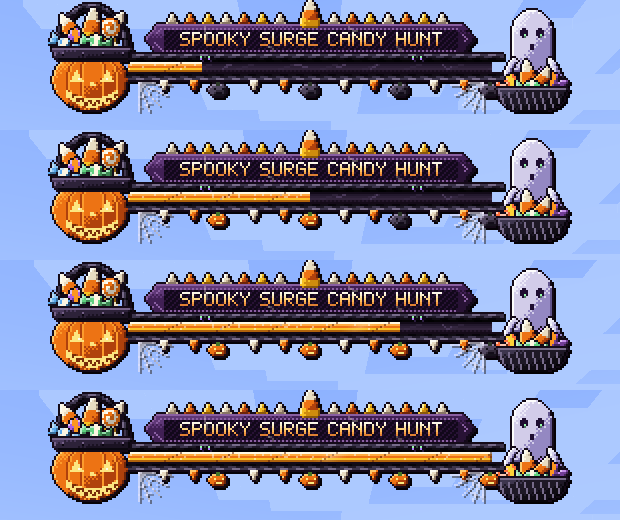
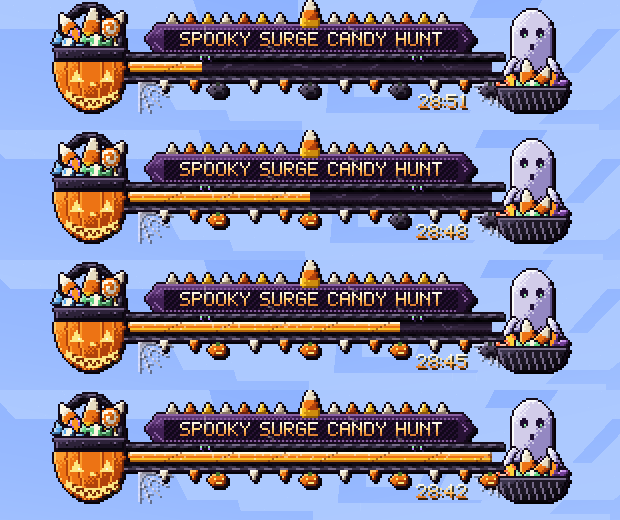
Candy Hunt bar: pumpkin pail opening matches the pumpkin, add a small timer under the bar
The pumpkin is now a round body cut open near its widest point and the rim is exactly as wide as the pumpkin, so the basket top no longer
overhangs it. A small m:ss timer (own 5x7 digit font) sits under the bar beside the right cobweb; the right cobweb is smaller and moved
out of its way. The timer is part of the Java and Python title layouts (golden-tested) and is set from the surge's remaining time.

Claude-Session: https://claude.ai/code/session_01ECEkNrQzr2ho3CrbQ9Uk8T

diff --git a/tools/bossbar-art/candyhunt.py b/tools/bossbar-art/candyhunt.py
@@ -142,7 +142,7 @@ def lollipop(c, cx, cy, r=5.2, stick=(3, 14)):
 
 def pumpkin_pail(c, cx=22):
     """Left medallion: a jack-o'-lantern trick-or-treat pail brimming with candy, under a licorice handle."""
-    handle = [(cx + 17.5 * math.cos(math.radians(a)), 25 + 22.0 * math.sin(math.radians(a))) for a in range(180, 361, 10)]
+    handle = [(cx - 1 + 15.8 * math.cos(math.radians(a)), 25 + 22.0 * math.sin(math.radians(a))) for a in range(180, 361, 10)]
     rope_pixels(c, handle, 2.8)
     # the candy pile, drawn behind the rim
     draw_candy(c, cx - 11, 7, 15, 9, 2.6, deg=-34, over=True)
@@ -151,15 +151,17 @@ def pumpkin_pail(c, cx=22):
     wrapped_candy(c, cx - 8, 18, deg=-18, wrap=0)
     draw_candy(c, cx, 5, 17, 10, 3, deg=4, over=True)
     wrapped_candy(c, cx + 2, 21, deg=10, wrap=1, length=11)
-    wrapped_candy(c, cx - 14, 22, deg=24, wrap=3, length=10)
-    # the pumpkin pail
-    body = c.ellipse(cx - 1, 40, 18.6, 15.2)
+    wrapped_candy(c, cx - 12, 22, deg=24, wrap=3, length=10)
+    # the pumpkin pail: a round pumpkin cut open near its widest point, so the opening is as wide as the pumpkin and the rim never overhangs it
+    bc, RX, RY, CY, CUT = cx - 1, 17.6, 21.0, 34, 27
+    body = c.ellipse(bc, CY, RX, RY)
+    body[:CUT, :] = False
     bevel(c, body, ORANGE, edge=body)
-    for k in (-13, -6.5, 6.5, 13):                                         # ribs follow the curve of the pumpkin
-        for y in range(26, 56):
-            f = 1 - ((y - 40) / 15.2) ** 2
+    for k in (-12.5, -6.2, 6.2, 12.5):                                     # ribs follow the curve of the pumpkin
+        for y in range(CUT, 56):
+            f = 1 - ((y - CY) / RY) ** 2
             if f <= 0: continue
-            x = int(round(cx + k * math.sqrt(f)))
+            x = int(round(bc + k * math.sqrt(f)))
             if 0 <= x < c.w and body[y, x]:
                 c.put(x, y, tuple4(ORANGE[1])); c.put(x + (1 if k < 0 else -1), y, tuple4(ORANGE[3]))
     c.outline(OUT, base=body)
@@ -185,10 +187,10 @@ def pumpkin_pail(c, cx=22):
         y1 = 47.8 + 6.0 * (1 - ((x - cx) / 13.5) ** 2) - 0.6
         t = c.poly([(x, y1), (x + 2.6, y1), (x + 1.3, y1 - 2.4)]) & m
         c.paint(t, edge)
-    # the pail's rim: a charcoal band with rivets, in front of the candy and the pumpkin top
-    rim = c.poly([(cx - 20, 24), (cx + 20, 24), (cx + 18.6, 29.4), (cx - 18.6, 29.4)])
+    # the rim: a charcoal band exactly as wide as the pumpkin at its widest, so it frames the opening instead of overhanging it
+    rim = c.poly([(bc - RX, 24), (bc + RX, 24), (bc + RX - 0.6, 29.4), (bc - RX + 0.6, 29.4)])
     bevel(c, rim, CHAR, edge=rim); c.outline(OUT, base=rim, over=True)
-    for x in (cx - 15, cx - 5, cx + 5, cx + 15): c.put(x, 26, tuple4(CHAR[4])); c.put(x, 27, tuple4(CHAR[0]))
+    for x in (bc - 12, bc - 4, bc + 4, bc + 12): c.put(int(x), 26, tuple4(CHAR[4])); c.put(int(x), 27, tuple4(CHAR[0]))
 
 
 def ghost_bowl(c, cx=242):
@@ -267,10 +269,10 @@ def rails(c):
         pass
 
 
-def web(c, ax, ay, bx, by, flip):
+def web(c, ax, ay, bx, by, flip, scale=1.0):
     """A tiny cobweb fanning from the corner (ax, ay); flip mirrors it for the right-hand side."""
     sgn = -1 if flip else 1
-    rays = [(sgn * 16, 1), (sgn * 14, 6), (sgn * 10, 11), (sgn * 5, 14), (0, 15)]
+    rays = [(sgn * 16 * scale, 1), (sgn * 14 * scale, 6 * scale), (sgn * 10 * scale, 11 * scale), (sgn * 5 * scale, 14 * scale), (0, 15 * scale)]
     for rx, ry in rays:
         n = int(max(abs(rx), abs(ry)))
         for i in range(n + 1):
@@ -327,7 +329,7 @@ def compose():
     c = Canvas(CW, CH)
     banner(c)
     rails(c)
-    web(c, 45, 41, 0, 0, False); web(c, 217, 41, 0, 0, True)
+    web(c, 45, 41, 0, 0, False); web(c, 224, 41, 0, 0, True, 0.75)
     fangs(c)
     for k in range(4): tier_studs(c, SLOT_X + (45, 91, 136, 181)[k], False)
     trapped_eyes(c)
@@ -446,3 +448,24 @@ def font_sheet():
         metrics[ch] = {'cp': cp, 'adv': right + 2}                     # Minecraft trims empty RIGHT columns: advance = rightmost inked column + 1, plus 1
     metrics[' '] = {'cp': PUA_BASE + 0xFF, 'adv': SPACE_ADV}
     return sheet, [''.join(r) for r in chars], metrics
+
+
+# ---------------------------------------------------------------------------------------------------------- timer font
+TIMER_CHARS = '0123456789:'
+TIMER_CELL_W, TIMER_CELL_H = 5, 7
+TIMER_CP_BASE = 0xE140
+TIMER_RIGHT, TIMER_TOP = 209, 47          # the timer's right edge and top, in frame pixels: under the bar, left of the right cobweb
+
+
+def timer_sheet():
+    """A strip of 5x7 digits and a colon for the small countdown under the bar. Same glyph rules as the name font."""
+    sheet = Image.new('RGBA', (len(TIMER_CHARS) * TIMER_CELL_W, TIMER_CELL_H), (0, 0, 0, 0))
+    metrics = {}
+    for i, ch in enumerate(TIMER_CHARS):
+        pat = PAT[ch]
+        for y, row in enumerate(pat):
+            for x, b in enumerate(row):
+                if b == '#': sheet.putpixel((i * TIMER_CELL_W + x, y), (*GLYPH_ROWS[y], 255))
+        right = max(x for row in pat for x, b in enumerate(row) if b == '#')
+        metrics[ch] = {'cp': TIMER_CP_BASE + i, 'adv': right + 2}
+    return sheet, ''.join(chr(TIMER_CP_BASE + i) for i in range(len(TIMER_CHARS))), metrics

diff --git a/tools/bossbar-art/title.py b/tools/bossbar-art/title.py
@@ -39,7 +39,11 @@ def spaces(n):
     return out
 
 
-def title(name, tier):
+def timer_text(text):
+    return ''.join(c for c in (text or '') if c in M['timer']['glyphs'])[:8]
+
+
+def title(name, tier, timer=None):
     out, cur = '', 0
     f = M['frame']
     out += chr(f['cpLeft']); cur += f['advLeft']
@@ -54,20 +58,28 @@ def title(name, tier):
         out += spaces(start - cur); cur = start
         for c in run:
             out += chr(M['letters'][c]['cp']); cur += M['letters'][c]['adv']
+    t = timer_text(timer)
+    if t:
+        g = M['timer']['glyphs']
+        start = M['timer']['right'] - (sum(g[c]['adv'] for c in t) - 1)
+        out += spaces(start - cur); cur = start
+        for c in t:
+            out += chr(g[c]['cp']); cur += g[c]['adv']
     out += spaces(M['titleWidth'] - cur)
     return out
 
 
-def component_json(name, tier):
+def component_json(name, tier, timer=None):
     """The same title as a vanilla text component (what /bossbar set <id> name expects)."""
-    return json.dumps({"text": title(name, tier), "font": "spookysurge:candyhunt", "color": "white"})
+    return json.dumps({"text": title(name, tier, timer), "font": "spookysurge:candyhunt", "color": "white"})
 
 
-CASES = [('', 0), ('SPOOKY SURGE CANDY HUNT', 0), ('SPOOKY SURGE CANDY HUNT', 4), ('Spooky Surge 1234/5000', 2), ('a', 3), ('SURGE BEGINS IN 45S', 1),
-         ('x' * 80, 4), ('Pokémon  Trainer', 2), ('W' * 30, 0), ('中文 name', 1), ("It's the -END- & more: really?!", 4)]
+CASES = [('', 0, None), ('SPOOKY SURGE CANDY HUNT', 0, '27:00'), ('SPOOKY SURGE CANDY HUNT', 4, '0:05'), ('Spooky Surge 1234/5000', 2, '1:59:59'), ('a', 3, None),
+         ('CANDY HUNT BEGINS IN 45S', 1, '0:45'), ('x' * 80, 4, '12:34'), ('Pok\u00e9mon  Trainer', 2, 'ab1:2c'), ('W' * 30, 0, '99:99:99:99'),
+         ('\u4e2d\u6587 name', 1, ''), ("It's the -END- & more: really?!", 4, '8:08')]
 
 if __name__ == '__main__':
     out = os.path.join(HERE, '..', '..', 'src', 'test', 'resources', 'candyhunt_golden.json')
     os.makedirs(os.path.dirname(out), exist_ok=True)
-    json.dump([{'name': n, 'tier': t, 'title': title(n, t)} for n, t in CASES], open(out, 'w'), indent=1)
+    json.dump([{'name': n, 'tier': t, 'timer': tm, 'title': title(n, t, tm)} for n, t, tm in CASES], open(out, 'w'), indent=1)
     print('wrote', len(CASES), 'golden titles')

diff --git a/tools/bossbar-art/build_assets.py b/tools/bossbar-art/build_assets.py
@@ -6,7 +6,7 @@ Outputs (all under src/main/resources):
     assets/minecraft/textures/gui/sprites/boss_bar/yellow_background.png, yellow_progress.png(+.mcmeta)   reserved colour YELLOW
     assets/minecraft/textures/gui/sprites/boss_bar/blue_background.png,   blue_progress.png               reserved colour BLUE: fully transparent spacer
     assets/spookysurge/font/candyhunt.json
-    assets/spookysurge/textures/font/candyhunt/{frame_l,frame_r,tier_lit,letters}.png
+    assets/spookysurge/textures/font/candyhunt/{frame_l,frame_r,tier_lit,letters,timer}.png
     assets/spookysurge/hud/candyhunt_metrics.json   (not shipped to clients: glyph code points and advances for the server-side layout)
 """
 import json, os, sys
@@ -49,11 +49,13 @@ def main():
     frame.save(os.path.join(HERE, 'frame_full.png'))               # for previews only; never shipped
     stud, box = R.lit_stud(); stud.save(f'{FNT}/tier_lit.png')
     sheet, rows, metrics = R.font_sheet(); sheet.save(f'{FNT}/letters.png')
+    tsheet, tchars, tmetrics = R.timer_sheet(); tsheet.save(f'{FNT}/timer.png')
     providers = [
         {"type": "bitmap", "file": f"{NS}:font/candyhunt/frame_l.png", "ascent": ascent_for(0), "height": frame.height, "chars": [chr(FRAME_L_CP)]},
         {"type": "bitmap", "file": f"{NS}:font/candyhunt/frame_r.png", "ascent": ascent_for(0), "height": frame.height, "chars": [chr(FRAME_R_CP)]},
         {"type": "bitmap", "file": f"{NS}:font/candyhunt/tier_lit.png", "ascent": ascent_for(box[1]), "height": stud.height, "chars": [chr(STUD_CP)]},
         {"type": "bitmap", "file": f"{NS}:font/candyhunt/letters.png", "ascent": ascent_for(16), "height": R.CELL_H, "chars": rows},
+        {"type": "bitmap", "file": f"{NS}:font/candyhunt/timer.png", "ascent": ascent_for(R.TIMER_TOP), "height": R.TIMER_CELL_H, "chars": [tchars]},
     ]
     adv = {}
     for k in range(8):
@@ -68,6 +70,7 @@ def main():
         'tier_lit': {'cp': STUD_CP, 'adv': stud.width + 1, 'lefts': [x - 6 for x in R.STUD_X]},
         'window': {'x': R.SLOT_X, 'y': R.SLOT_Y, 'w': R.SLOT_W, 'h': R.SLOT_H},
         'plate': {'x0': 58, 'x1': 205}, 'canvasCenter': 131, 'titleWidth': 262,
+        'timer': {'right': R.TIMER_RIGHT, 'glyphs': tmetrics},
         'letters': metrics,
     }
     json.dump(meta, open(f'{HUD}/candyhunt_metrics.json', 'w'), indent=1)

diff --git a/src/main/java/com/spookysurge/hud/CandyHuntTitle.java b/src/main/java/com/spookysurge/hud/CandyHuntTitle.java
@@ -61,8 +61,21 @@ public final class CandyHuntTitle {
         return cut.stripTrailing() + dots;
     }
 
-    /** The full title: frame, lit tier lights (0 to 4), then the centred name. */
+    /** The title without a timer. */
     public String title(String name, int tier) {
+        return title(name, tier, null);
+    }
+
+    /** Keeps only digits and colons, at most 8 characters. */
+    public String sanitizeTimer(String text) {
+        if (text == null) return "";
+        StringBuilder out = new StringBuilder();
+        for (int i = 0; i < text.length() && out.length() < 8; i++) if (m.timer.glyphs.containsKey(String.valueOf(text.charAt(i)))) out.append(text.charAt(i));
+        return out.toString();
+    }
+
+    /** The full title: frame, lit tier lights (0 to 4), the centred name, and an optional small timer under the bar (e.g. "27:00"). */
+    public String title(String name, int tier, String timer) {
         StringBuilder out = new StringBuilder();
         int cursor = 0;
         out.appendCodePoint(m.frame.cpLeft);
@@ -81,6 +94,17 @@ public final class CandyHuntTitle {
             cursor = moveTo(out, cursor, m.canvasCenter - visualWidth(run) / 2);
             for (int i = 0; i < run.length(); i++) {
                 CandyHuntMetrics.Glyph g = m.glyph(run.charAt(i));
+                out.appendCodePoint(g.cp);
+                cursor += g.adv;
+            }
+        }
+        String t = sanitizeTimer(timer);
+        if (!t.isEmpty()) {
+            int width = -1;
+            for (int i = 0; i < t.length(); i++) width += m.timer.glyphs.get(String.valueOf(t.charAt(i))).adv;
+            cursor = moveTo(out, cursor, m.timer.right - width);
+            for (int i = 0; i < t.length(); i++) {
+                CandyHuntMetrics.Glyph g = m.timer.glyphs.get(String.valueOf(t.charAt(i)));
                 out.appendCodePoint(g.cp);
                 cursor += g.adv;
             }
@@ -126,6 +150,7 @@ public final class CandyHuntTitle {
 
     private int glyphAdvance(char c) {
         for (CandyHuntMetrics.Glyph g : m.letters.values()) if (g.cp == c) return g.adv;
+        for (CandyHuntMetrics.Glyph g : m.timer.glyphs.values()) if (g.cp == c) return g.adv;
         throw new IllegalArgumentException("unknown glyph U+" + Integer.toHexString(c));
     }
 }

diff --git a/src/main/java/com/spookysurge/hud/CandyHuntBar.java b/src/main/java/com/spookysurge/hud/CandyHuntBar.java
@@ -63,6 +63,7 @@ public final class CandyHuntBar {
     private String artName = "";
     private String plainName;
     private int tier;
+    private String timer = "";
 
     public CandyHuntBar(String artName, String plainName) {
         this.artName = artName;
@@ -96,6 +97,14 @@ public final class CandyHuntBar {
         art.setName(title(artName, clamped));
     }
 
+    /** The small countdown shown under the bar with the art (digits and colons, e.g. "27:00"; empty for none). Sent only when it changes. */
+    public void setTimer(String text) {
+        String clean = layout.sanitizeTimer(text);
+        if (clean.equals(timer)) return;
+        timer = clean;
+        art.setName(title(artName, tier));
+    }
+
     /** Progress 0..1; NaN and out-of-range values are clamped. The boss bar itself sends a packet only when the value changes. */
     public void setProgress(float value) {
         float p = Float.isNaN(value) ? 0f : Math.max(0f, Math.min(1f, value));
@@ -109,7 +118,7 @@ public final class CandyHuntBar {
     }
 
     private Component title(String name, int tier) {
-        return Component.literal(layout.title(name, tier)).withStyle(Style.EMPTY.withFont(FONT).withColor(0xFFFFFF));
+        return Component.literal(layout.title(name, tier, timer)).withStyle(Style.EMPTY.withFont(FONT).withColor(0xFFFFFF));
     }
 
     // ------------------------------------------------------------------------------------------------ viewers

diff --git a/tools/bossbar-art/preview.py b/tools/bossbar-art/preview.py
@@ -12,6 +12,7 @@ META = json.load(open(os.path.join(B.HUD, 'candyhunt_metrics.json')))
 FRAME = Image.open(os.path.join(HERE, 'frame_full.png')).convert('RGBA')
 LIT = Image.open(f'{B.FNT}/tier_lit.png').convert('RGBA')
 LETTERS = Image.open(f'{B.FNT}/letters.png').convert('RGBA')
+TIMER = Image.open(f'{B.FNT}/timer.png').convert('RGBA')
 BG_SPRITE = Image.open(f'{B.SPR}/yellow_background.png').convert('RGBA')
 PROG = Image.open(f'{B.SPR}/yellow_progress.png').convert('RGBA')
 ORDER = R.ORDER
@@ -33,7 +34,7 @@ def name_run(name):
     return out
 
 
-def title_items(name, tier):
+def title_items(name, tier, timer='12:34'):
     """Mirror of CandyHuntTitle.java: [(image, x, y_top)] in title pixels, plus the total width. Order = draw order."""
     items = [(FRAME, 0, 0)]
     for k in range(min(4, tier)): items.append((LIT, META['tier_lit']['lefts'][k], 39))
@@ -43,6 +44,14 @@ def title_items(name, tier):
     for ch, adv in run:
         if ch != ' ': items.append((glyph_image(ch), x, 16))
         x += adv
+    t = ''.join(c for c in (timer or '') if c in META['timer']['glyphs'])
+    if t:
+        g = META['timer']['glyphs']
+        x = META['timer']['right'] - (sum(g[c]['adv'] for c in t) - 1)
+        for c in t:
+            i = R.TIMER_CHARS.index(c)
+            items.append((TIMER.crop((i * R.TIMER_CELL_W, 0, (i + 1) * R.TIMER_CELL_W, R.TIMER_CELL_H)), x, R.TIMER_TOP))
+            x += g[c]['adv']
     return items
 
 

diff --git a/src/main/java/com/spookysurge/surge/SurgeManager.java b/src/main/java/com/spookysurge/surge/SurgeManager.java
@@ -462,6 +462,7 @@ public final class SurgeManager {
             long left = Math.max(0, (state.phaseEndsAt - now) / 1000);
             bar.setNames("CANDY HUNT BEGINS IN " + left + "S", "Spooky Surge Candy Hunt begins in " + left + "s");
             bar.setTier(0);
+            bar.setTimer(clock(left));
             bar.setProgress(left / (float) Math.max(1, config.countdownSeconds));
         } else {
             int target = target(server);
@@ -470,9 +471,16 @@ public final class SurgeManager {
             bar.setNames("SPOOKY SURGE CANDY HUNT",
                     String.format("Spooky Surge Candy Hunt  |  Tier %d  |  %d / %d  |  %d:%02d left", state.maxTier, state.counter, target, left / 60, left % 60));
             bar.setTier(state.maxTier);
+            bar.setTimer(clock(left));
             bar.setProgress(state.counter / (float) Math.max(1, target));
         }
         for (ServerPlayer player : server.getPlayerList().getPlayers()) bar.addViewer(player);
+    }
+
+    /** Seconds as m:ss, or h:mm:ss from an hour up: the small timer under the bar. */
+    static String clock(long seconds) {
+        long s = Math.max(0, seconds);
+        return s >= 3600 ? String.format("%d:%02d:%02d", s / 3600, s / 60 % 60, s % 60) : String.format("%d:%02d", s / 60, s % 60);
     }
 
     private static void clearBar() {

diff --git a/tools/bossbar-art/make_preview_pack.py b/tools/bossbar-art/make_preview_pack.py
@@ -22,6 +22,7 @@ FILES = [
     'assets/spookysurge/textures/font/candyhunt/frame_r.png',
     'assets/spookysurge/textures/font/candyhunt/tier_lit.png',
     'assets/spookysurge/textures/font/candyhunt/letters.png',
+    'assets/spookysurge/textures/font/candyhunt/timer.png',
 ]
 STATES = [(100, 4), (75, 3), (50, 2), (25, 1), (10, 0), (0, 0)]
 
@@ -40,7 +41,7 @@ def main():
         i = f'demo{pct}'
         lines += [f'# --- {pct}% health, tier {tier} lights',
                   f'bossbar add minecraft:{i}a {{"text":""}}', f'bossbar set minecraft:{i}a color blue', f'bossbar set minecraft:{i}a players @s',
-                  f'bossbar add minecraft:{i}b {T.component_json(name, tier)}', f'bossbar set minecraft:{i}b color yellow',
+                  f'bossbar add minecraft:{i}b {T.component_json(name, tier, '12:34')}', f'bossbar set minecraft:{i}b color yellow',
                   f'bossbar set minecraft:{i}b max 100', f'bossbar set minecraft:{i}b value {pct}', f'bossbar set minecraft:{i}b players @s',
                   f'bossbar add minecraft:{i}c {{"text":""}}', f'bossbar set minecraft:{i}c color blue', f'bossbar set minecraft:{i}c players @s', '']
         lines += ['# to show the next state, first run (uncomment):'] + [f'# bossbar remove minecraft:{i}{k}' for k in 'abc'] + ['']

diff --git a/src/test/java/com/spookysurge/hud/CandyHuntTitleTest.java b/src/test/java/com/spookysurge/hud/CandyHuntTitleTest.java
@@ -37,6 +37,22 @@ class CandyHuntTitleTest {
     }
 
     @Test
+    void timerKeepsTheTitleTheSameWidthAndSitsUnderTheBar() {
+        for (String timer : new String[] {"0:05", "27:00", "1:59:59", "12:34", "99:99:99:99", "ab1:2c", "", null}) {
+            String title = t.title("SPOOKY SURGE CANDY HUNT", 2, timer);
+            assertEquals(m.titleWidth, t.advanceOf(title), "timer '" + timer + "'");
+        }
+        String shown = t.title("A", 0, "27:00");
+        List<Placed> p = replay(shown);
+        List<Placed> digits = p.stream().filter(g -> m.timer.glyphs.values().stream().anyMatch(v -> v.cp == g.cp())).toList();
+        assertEquals(5, digits.size());
+        int end = digits.get(4).x() + m.timer.glyphs.get("0").adv - 1;
+        assertEquals(m.timer.right, end, "right-aligned");
+        assertEquals("27:00", t.sanitizeTimer("2a7:0b0"));
+        assertEquals("12345678", t.sanitizeTimer("1234567890"));
+    }
+
+    @Test
     void frameIsFirstAndSitsAtZero() {
         List<Placed> p = replay(t.title("A", 0));
         assertEquals(m.frame.cpLeft, p.get(0).cp());

diff --git a/src/test/java/com/spookysurge/hud/CandyHuntAssetsTest.java b/src/test/java/com/spookysurge/hud/CandyHuntAssetsTest.java
@@ -183,6 +183,13 @@ class CandyHuntAssetsTest {
             checked++;
         }
         assertEquals(m.letters.size() - 1, checked, "every letter except the space is in the sheet");
+        BufferedImage timerSheet = png(FONT_TEX + "timer.png");
+        int tw = timerSheet.getWidth() / 11;
+        for (String tc : "0123456789:".split("")) {
+            int index = "0123456789:".indexOf(tc), right = -1;
+            for (int x = 0; x < tw; x++) for (int y = 0; y < timerSheet.getHeight(); y++) if (alpha(timerSheet, index * tw + x, y) > 0) right = Math.max(right, x);
+            assertEquals(right + 2, m.timer.glyphs.get(tc).adv, "timer glyph " + tc);
+        }
         BufferedImage stud = png(FONT_TEX + "tier_lit.png");
         assertEquals(png(FONT_TEX + "frame_l.png").getWidth() + 1, m.frame.advLeft);
         assertEquals(png(FONT_TEX + "frame_r.png").getWidth() + 1, m.frame.advRight);

diff --git a/src/test/java/com/spookysurge/hud/CandyHuntTitleGoldenTest.java b/src/test/java/com/spookysurge/hud/CandyHuntTitleGoldenTest.java
@@ -23,7 +23,8 @@ class CandyHuntTitleGoldenTest {
         assertFalse(cases.isEmpty());
         for (JsonElement e : cases) {
             JsonObject c = e.getAsJsonObject();
-            assertEquals(c.get("title").getAsString(), t.title(c.get("name").getAsString(), c.get("tier").getAsInt()),
+            String timer = c.get("timer").isJsonNull() ? null : c.get("timer").getAsString();
+            assertEquals(c.get("title").getAsString(), t.title(c.get("name").getAsString(), c.get("tier").getAsInt(), timer),
                     "name '" + c.get("name").getAsString() + "' tier " + c.get("tier").getAsInt());
         }
     }

diff --git a/src/main/java/com/spookysurge/hud/CandyHuntPack.java b/src/main/java/com/spookysurge/hud/CandyHuntPack.java
@@ -31,7 +31,8 @@ public final class CandyHuntPack {
             FONT_TEX + "frame_l.png",
             FONT_TEX + "frame_r.png",
             FONT_TEX + "tier_lit.png",
-            FONT_TEX + "letters.png");
+            FONT_TEX + "letters.png",
+            FONT_TEX + "timer.png");
 
     public static void register() {
         PolymerResourcePackUtils.RESOURCE_PACK_CREATION_EVENT.register(builder -> {
